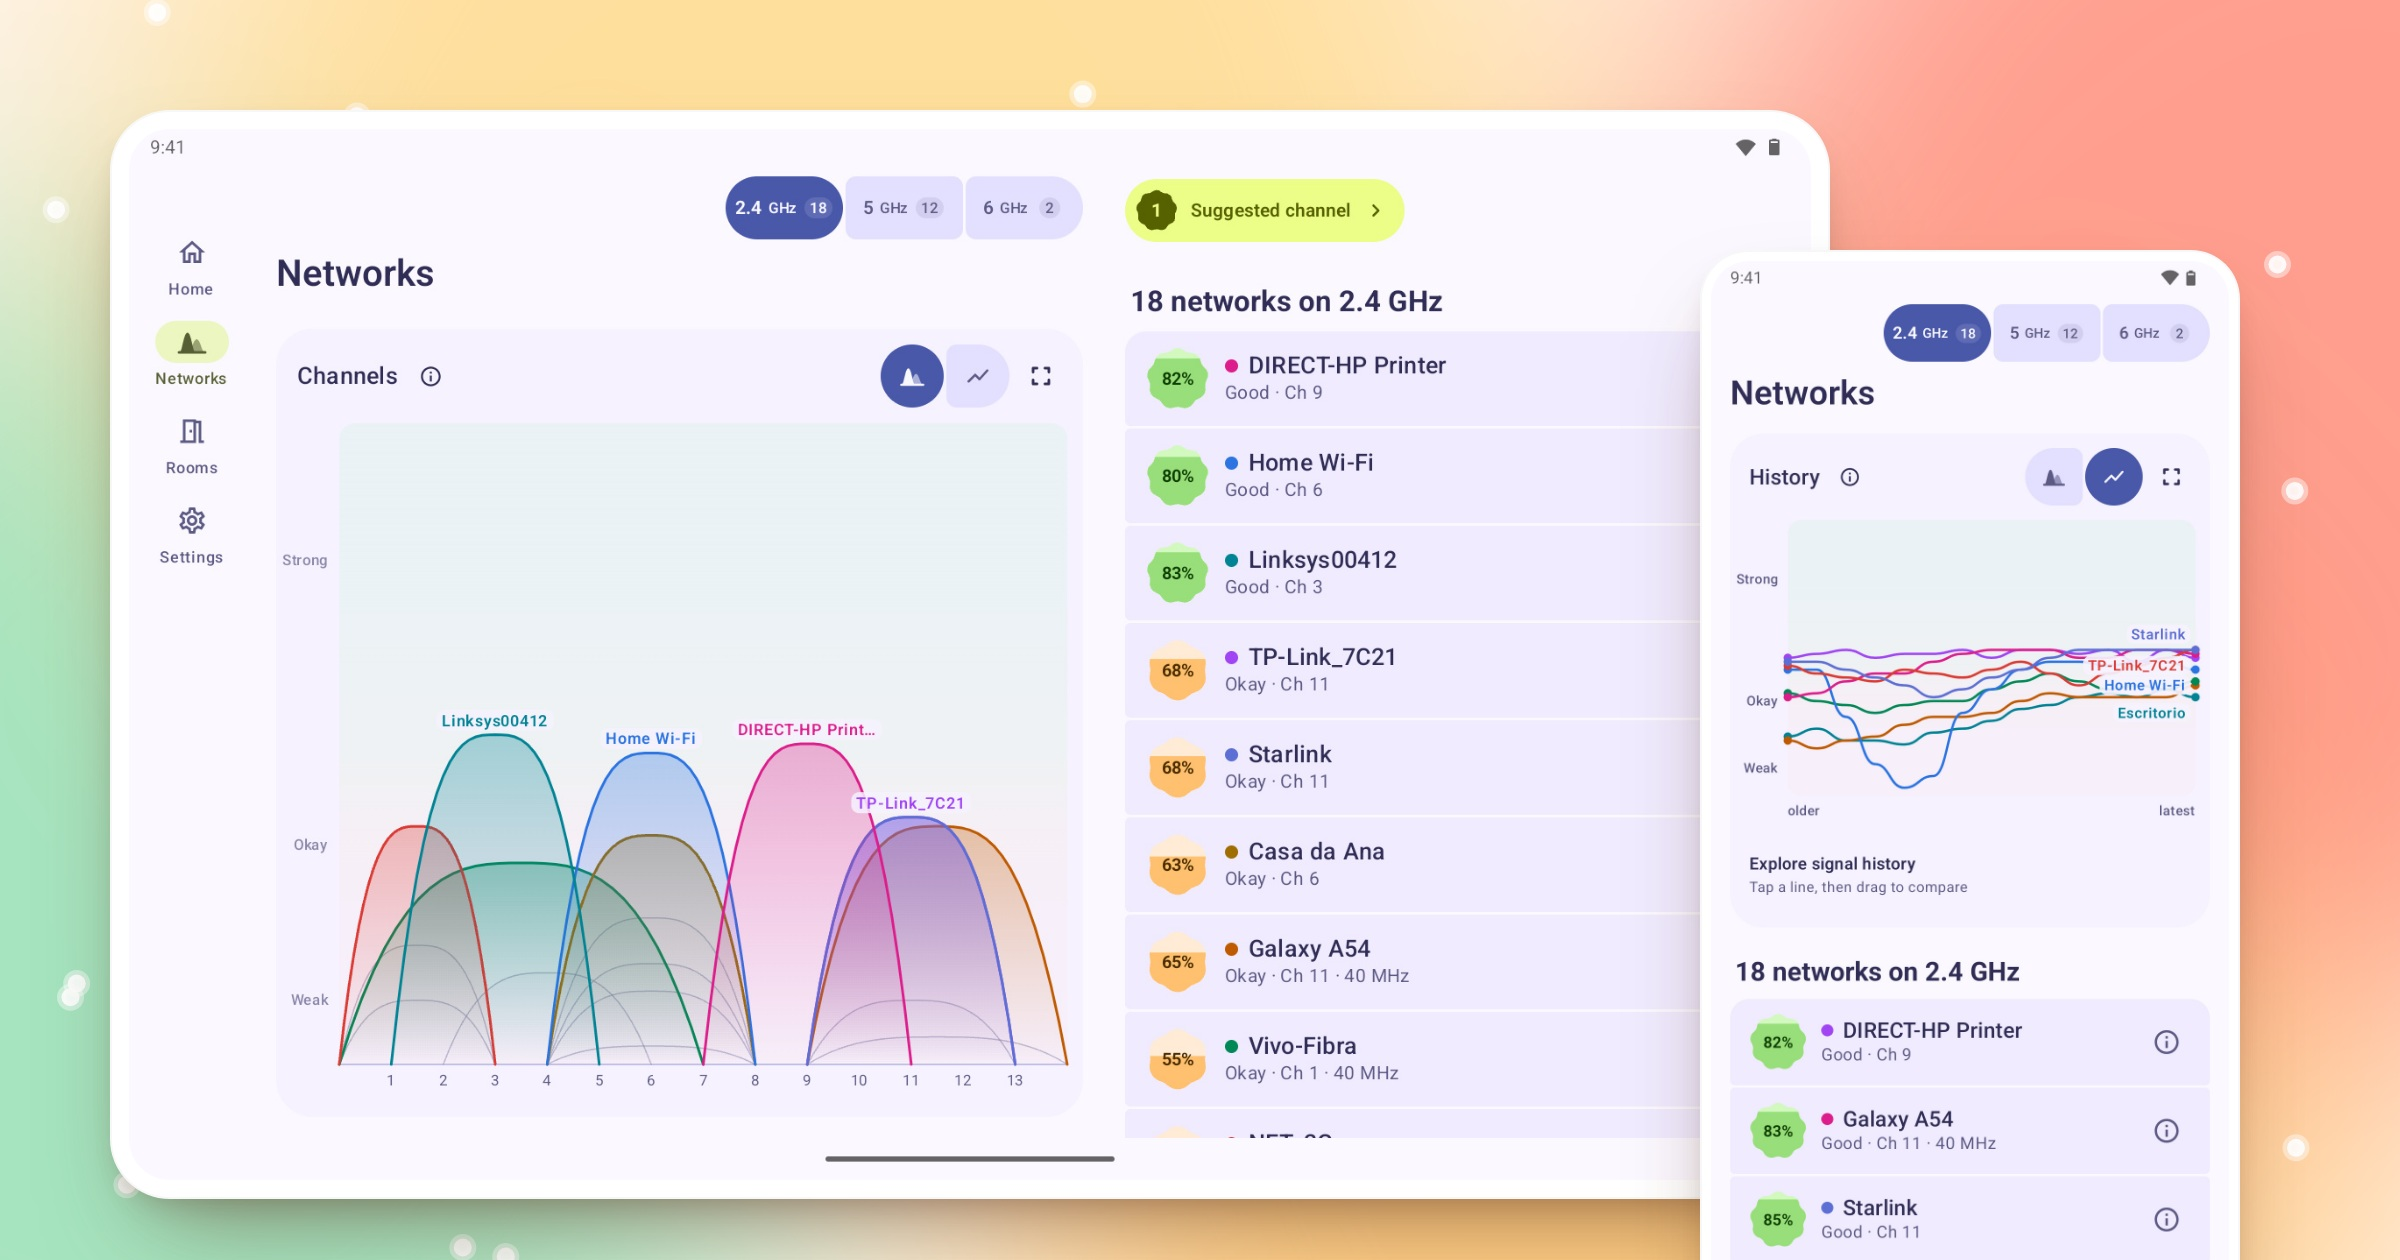
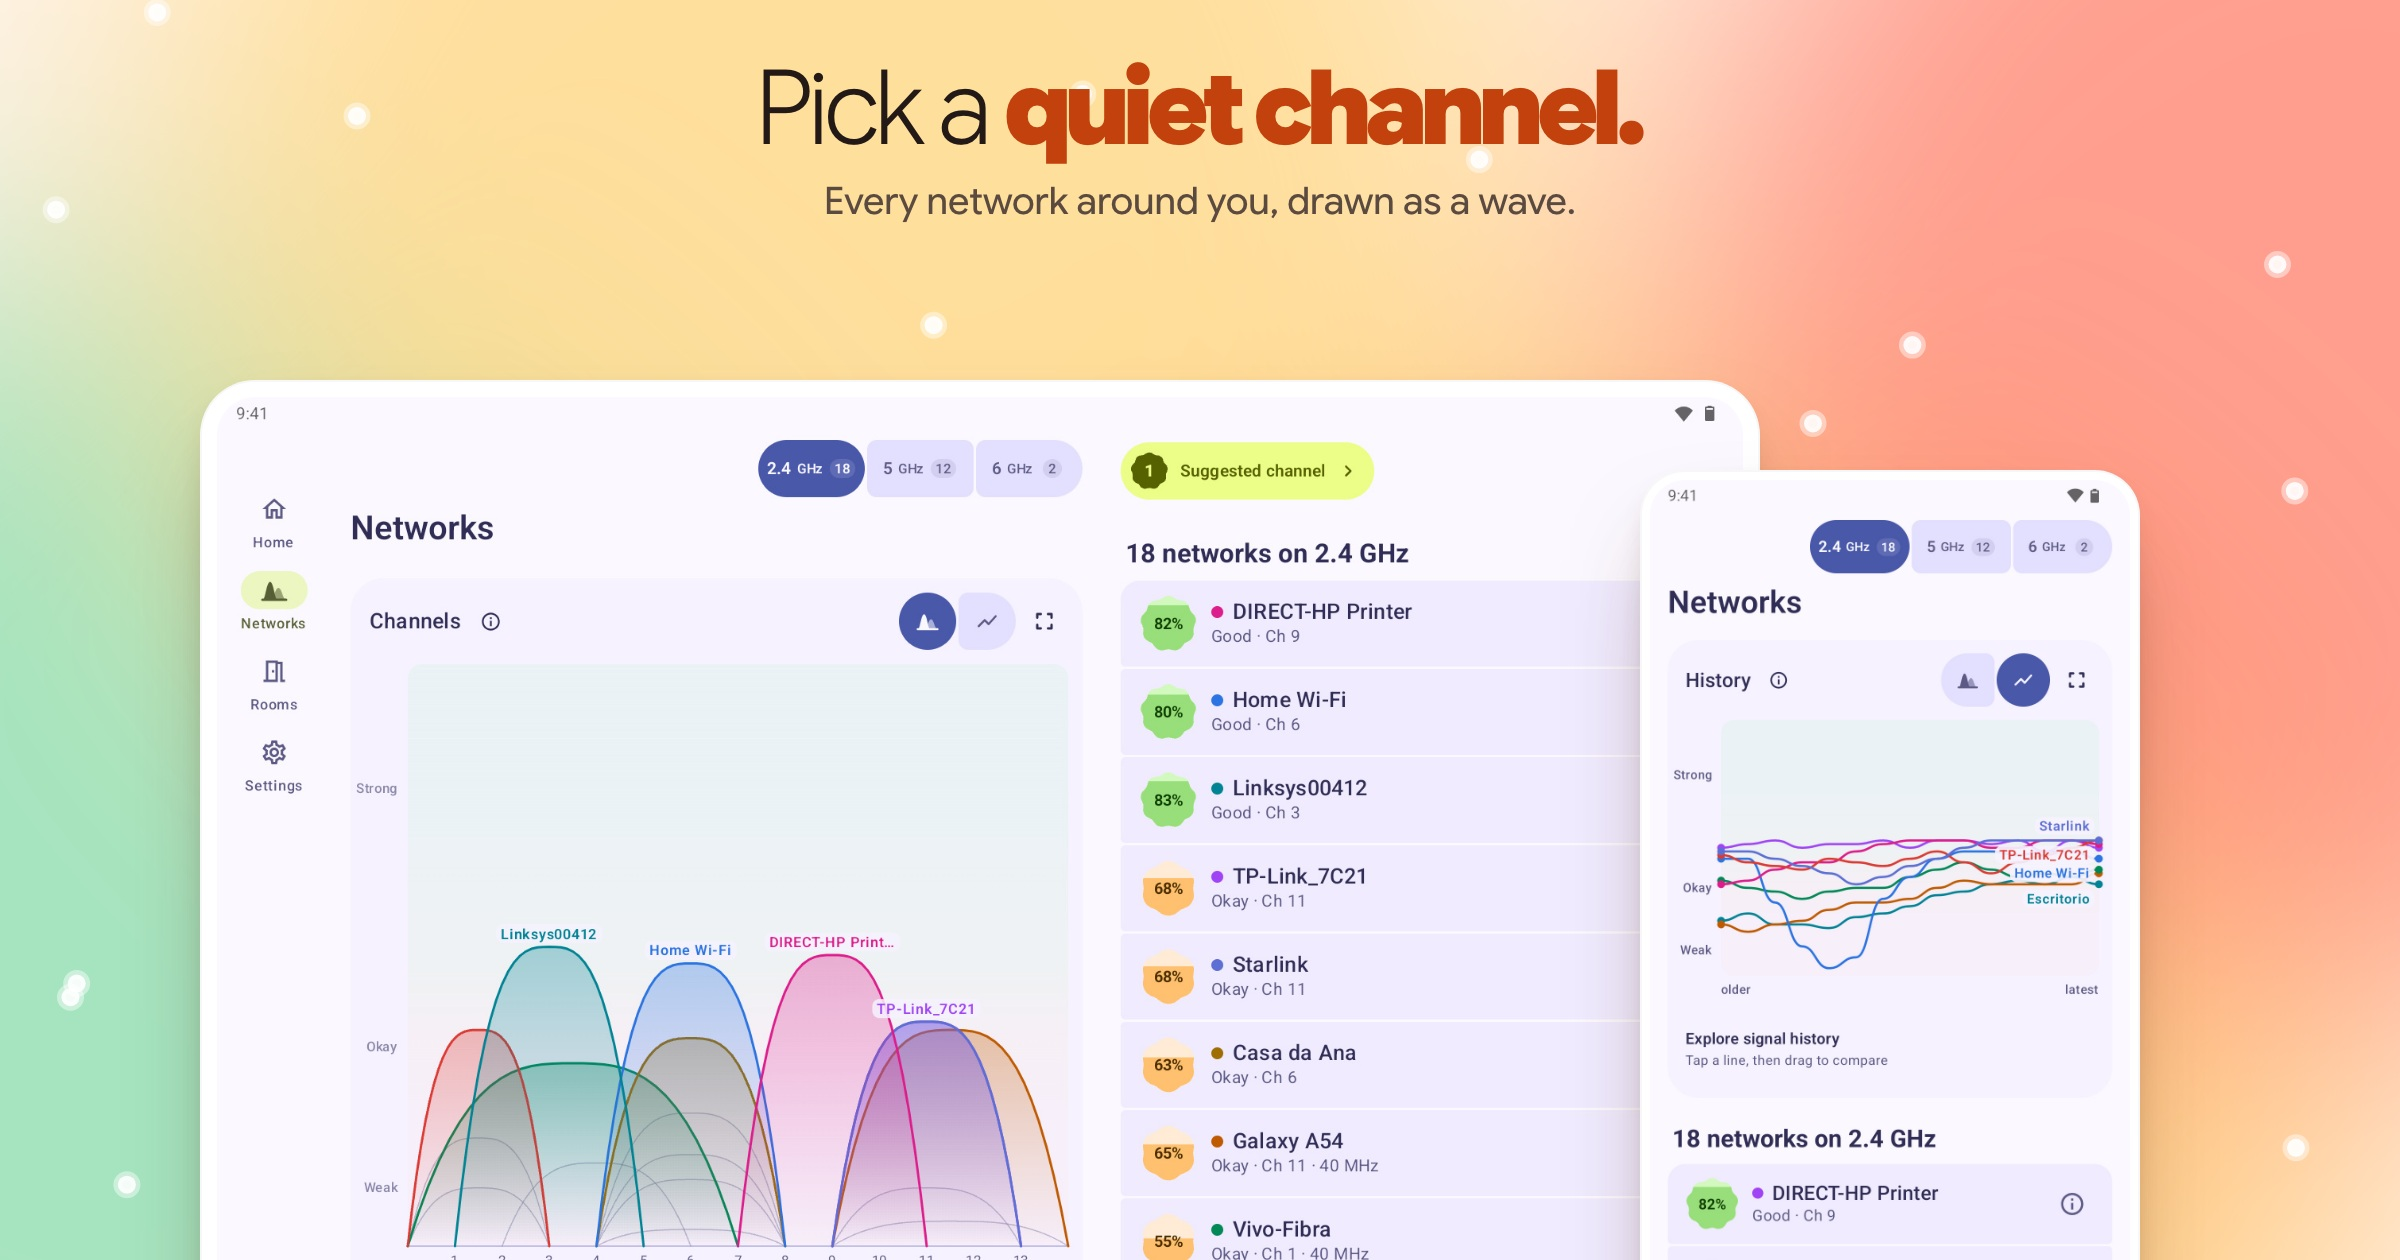
Give the README section images their own headlines

diff --git a/store-listing/theme.css b/store-listing/theme.css
@@ -61,11 +61,16 @@ header p{margin:30px 0 0;font-size:40px;line-height:1.25;font-weight:450;color:#
 .readme .hero h1{font-size:128px}
 .readme .hero .slate{--bezel:16px;--radius:44px;left:1000px;top:90px;width:760px}
 .readme .hero .front{--bezel:12px;--radius:58px;left:1640px;top:300px;width:560px;z-index:4}
-/* Wide: channel waves large on a landscape tablet, the signal walk on a phone in front. No words. */
-.readme .wide .slate{--bezel:16px;--radius:44px;left:110px;top:110px;width:1720px}
-.readme .wide .front{--bezel:12px;--radius:58px;left:1700px;top:250px;width:540px;z-index:4}
-/* Trio: three phones side by side at one size, each screen readable. No words. */
-.readme .trio .device{--bezel:12px;--radius:58px;top:110px;width:600px}
-.readme .trio .one{left:160px}
-.readme .trio .two{left:900px}
-.readme .trio .three{left:1640px}
+/* Wide: a centred headline, then the channel waves on a landscape tablet and the signal walk on a phone in front. */
+.readme .wide header{left:0;right:0;top:60px;text-align:center}
+.readme .wide h1{font-size:104px}
+.readme .wide header p{margin:18px auto 0;font-size:38px}
+.readme .wide .slate{--bezel:16px;--radius:44px;left:200px;top:380px;width:1560px}
+.readme .wide .front{--bezel:12px;--radius:58px;left:1640px;top:470px;width:500px;z-index:4}
+/* Trio: three phones side by side at one size, each under its own short headline, like the store cards. */
+.readme .trio .device{--bezel:12px;--radius:58px;top:330px;width:580px}
+.readme .trio .one{left:170px}
+.readme .trio .two{left:910px}
+.readme .trio .three{left:1650px}
+.readme .trio .device-label{transform:translateY(calc(-100% - 34px));text-align:left;font-size:56px;line-height:1.05;font-weight:720;letter-spacing:-.025em;color:var(--ink)}
+.readme .trio .device-label em{font-style:normal;color:#c2410c}

diff --git a/store-listing/studio/core.js b/store-listing/studio/core.js
@@ -125,7 +125,11 @@ for (const {spec, box} of context.devices) {
   const label = document.createElement('div');
   label.className = `device-label${spec.role ? ` ${spec.role}` : ''}`;
   label.dataset.checkBounds = '';
-  label.append(Object.assign(document.createElement('span'), {textContent: spec.label}));
+  // Labels take the headline's *highlight* markup.
+  const span = document.createElement('span');
+  spec.label.split(/(\*[^*]+\*)/).filter(Boolean).forEach(part => span.append(
+    part.startsWith('*') ? Object.assign(document.createElement('em'), {textContent: part.slice(1, -1)}) : document.createTextNode(part)));
+  label.append(span);
   Object.assign(label.style, {left: `${box.left}px`, width: `${box.width}px`, top: `${box.top}px`});
   main.append(label);
 }
